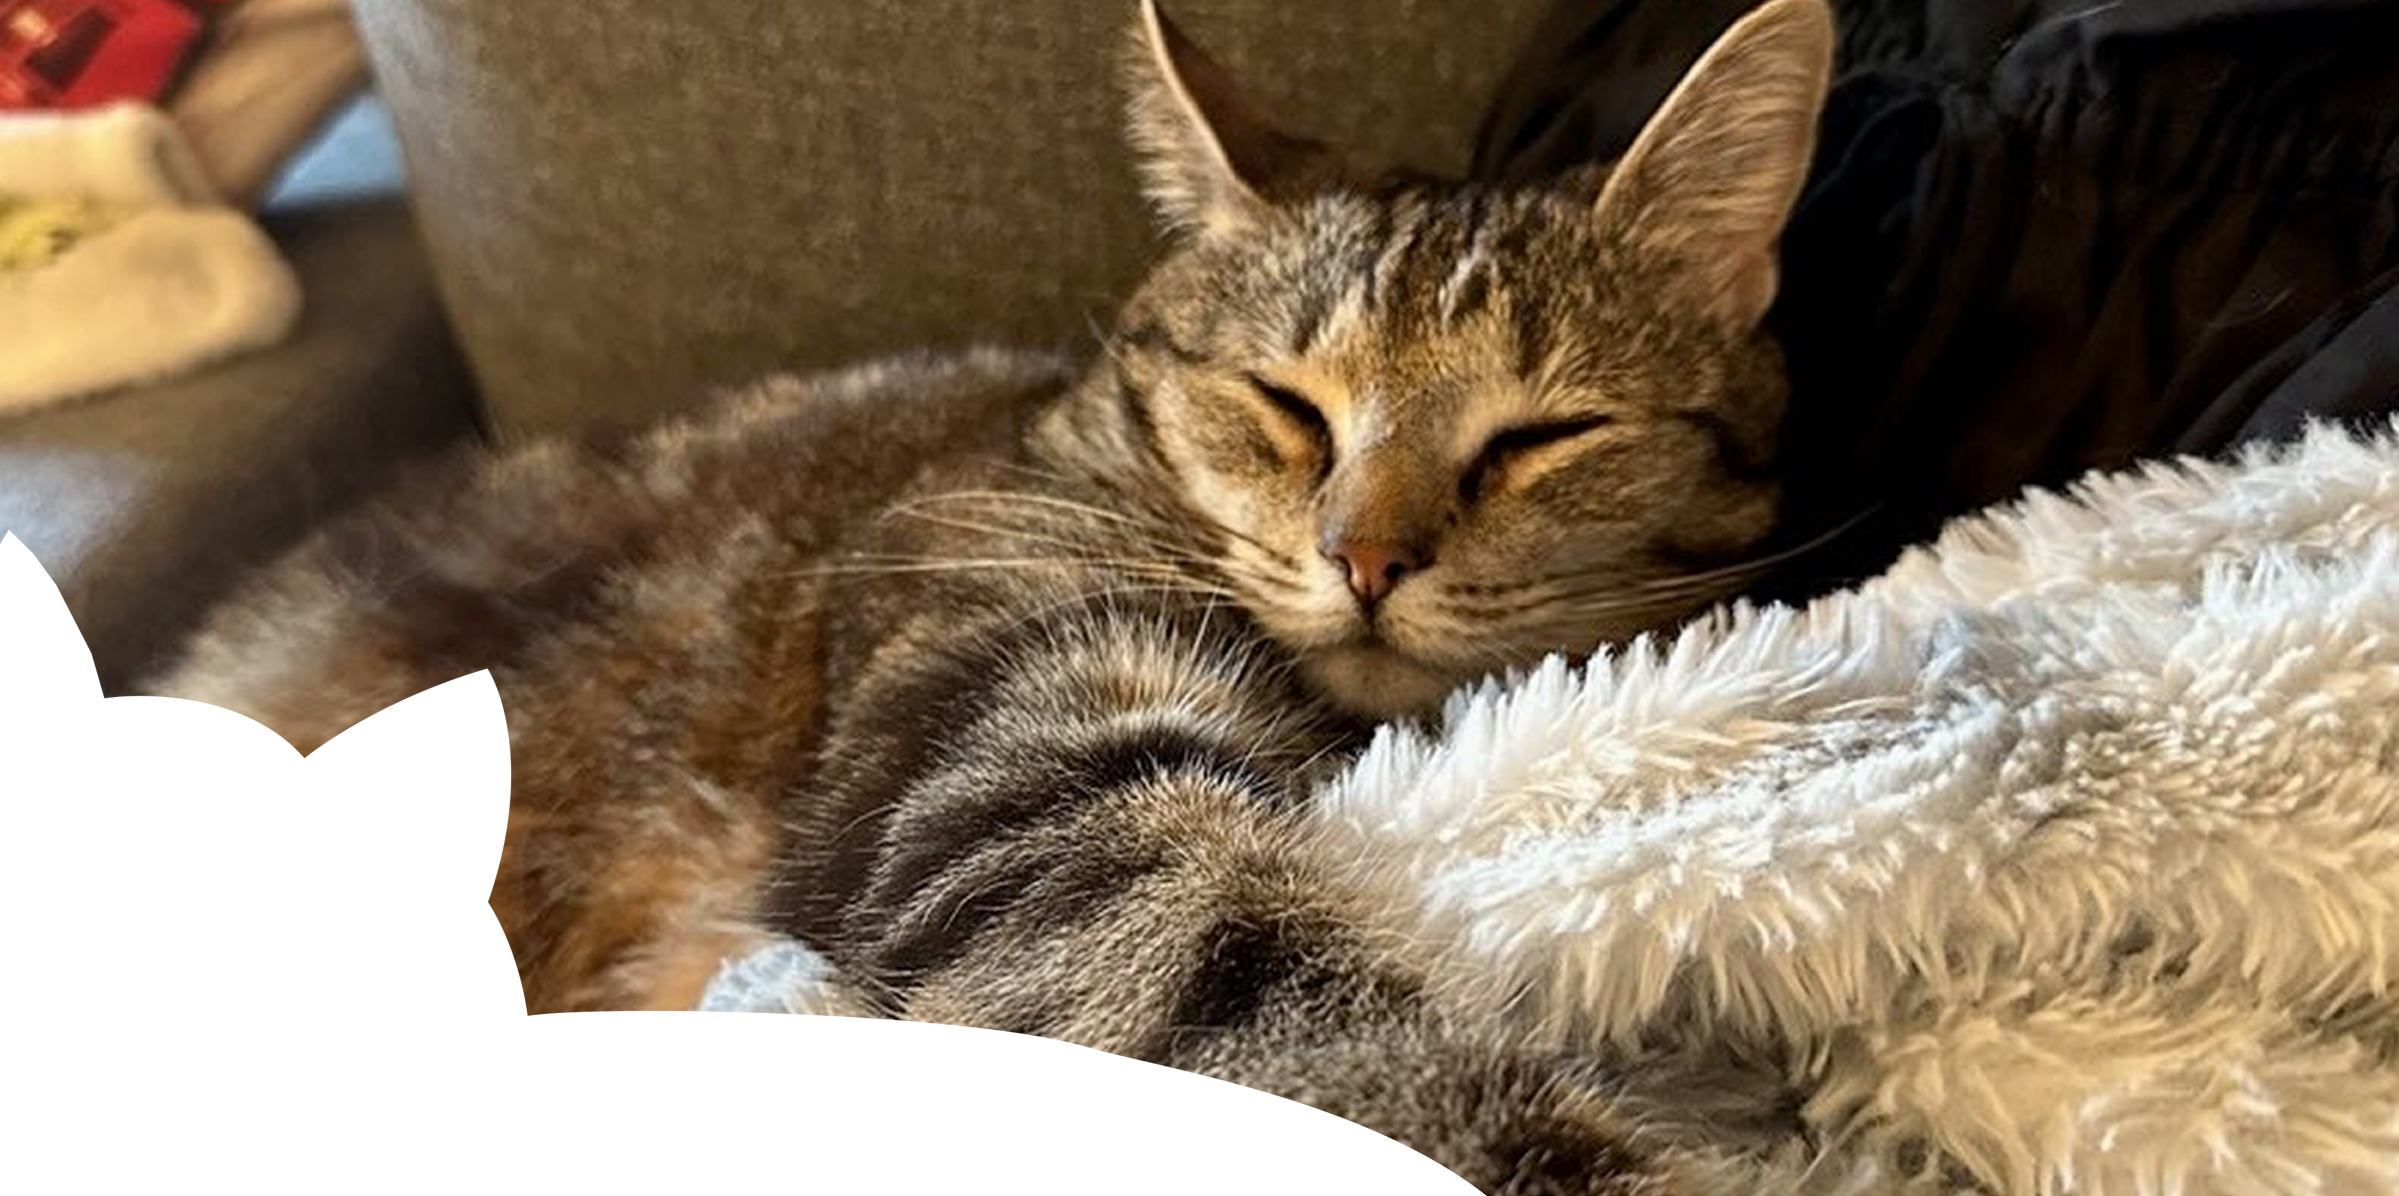
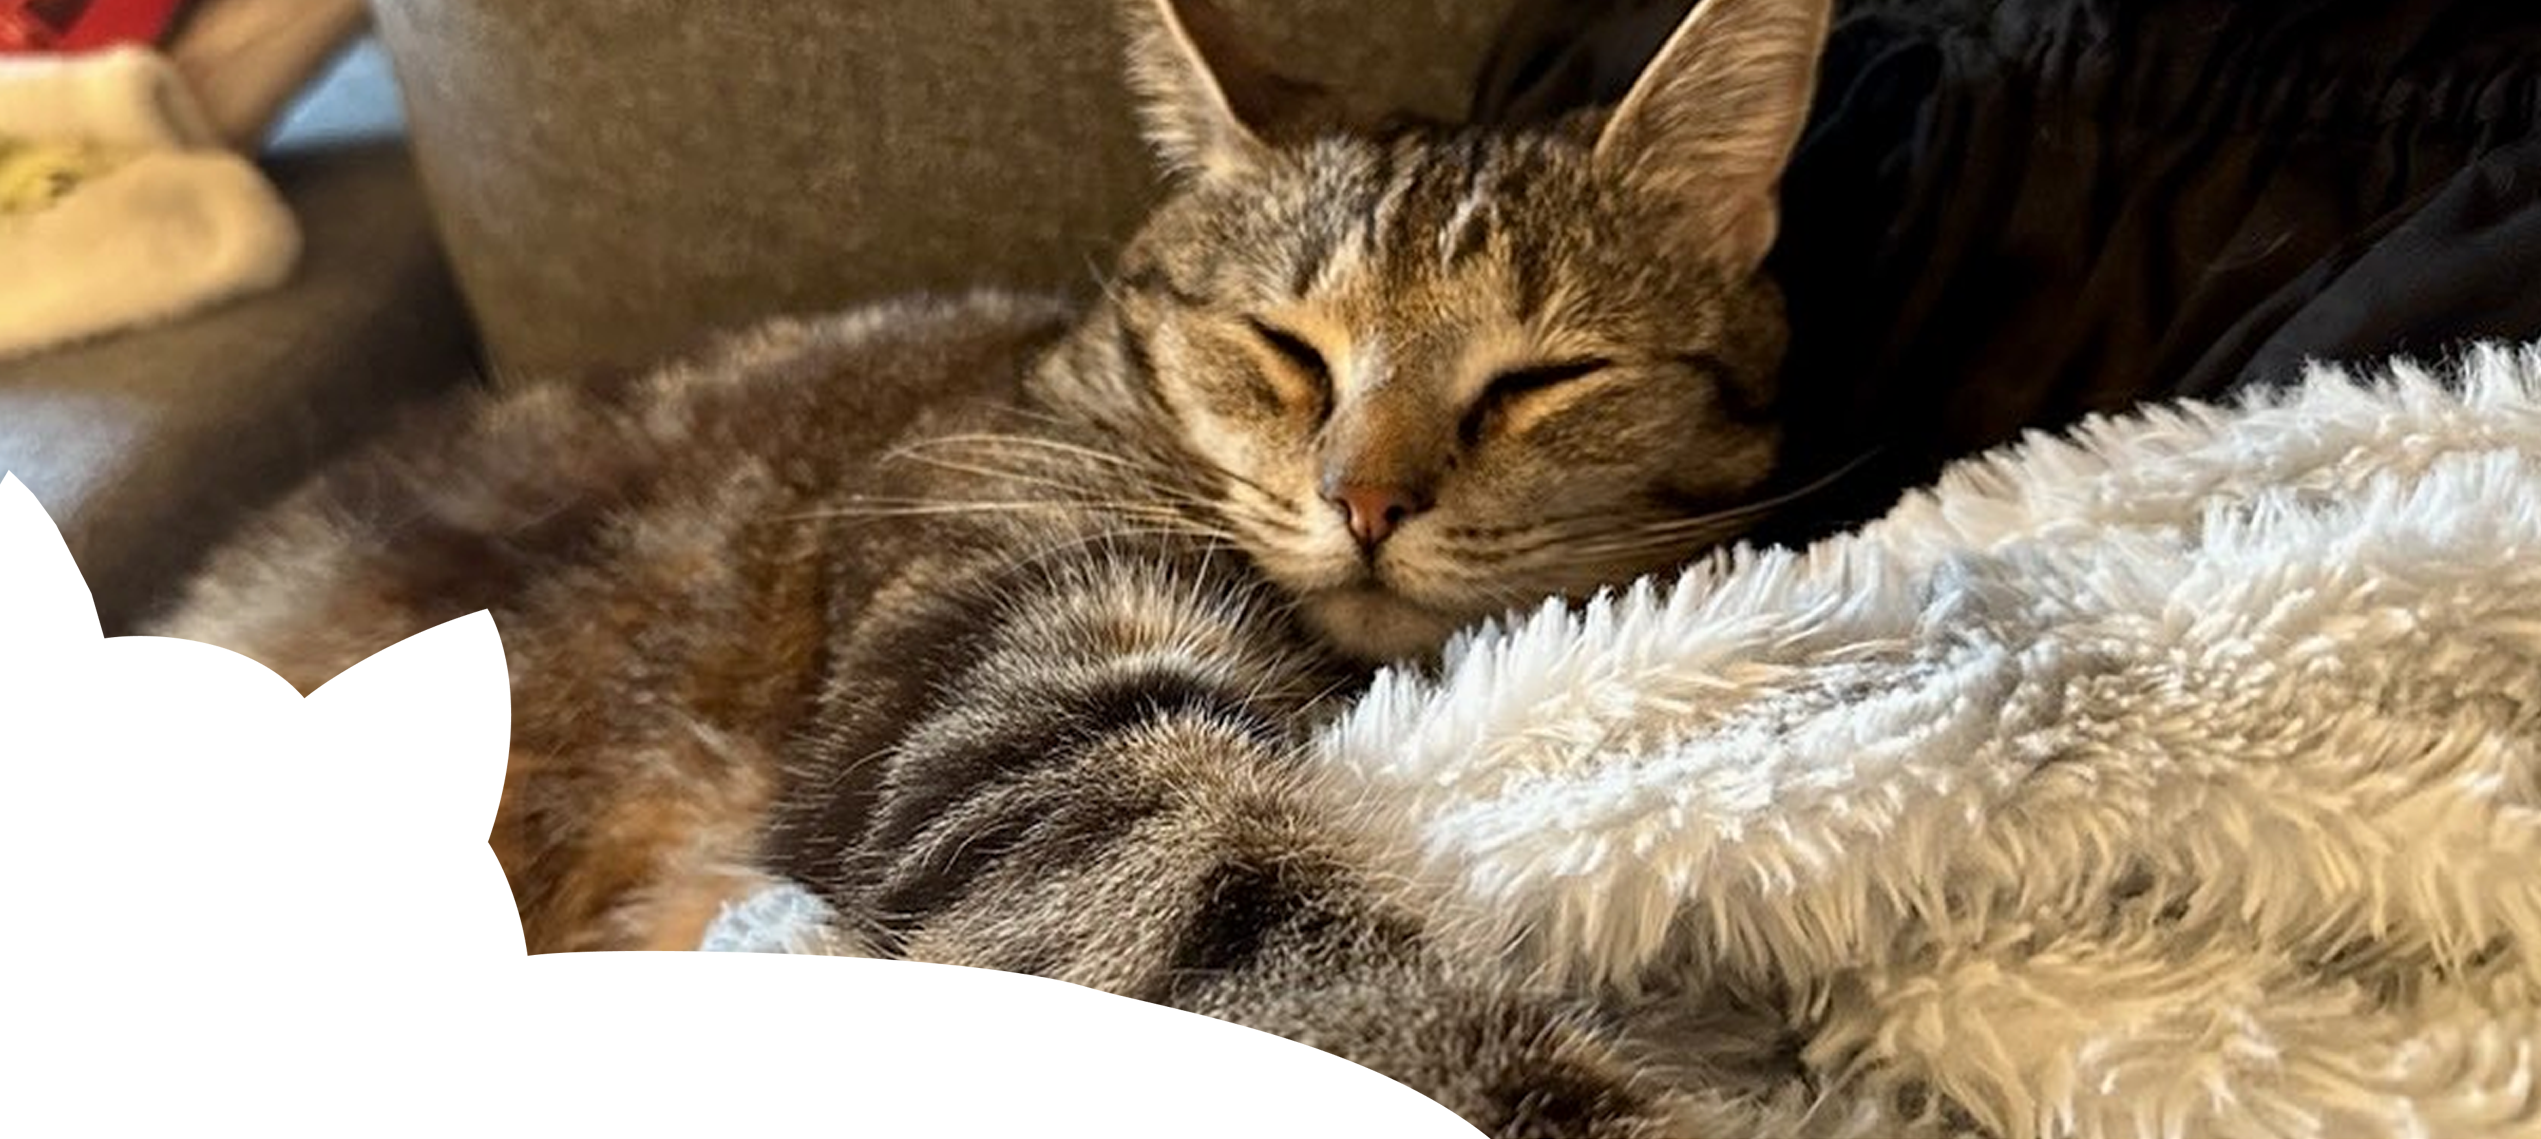
ny header - igen

diff --git a/style.css b/style.css
@@ -377,31 +377,12 @@ body {
     width: 100%;
     height: auto;
     margin-bottom: 40px;
+    
 }
 
 .hero h1 {
     font-size: 48px;
     color: white;
-}
-
-
-
-.overlay-image {
-    position: absolute;
-    top: 380px;
-    left: 0px;
-    width: 50px;
-    height: auto;
-    transform: scale(18);
-    /* Scale it 10 times larger */
-    transform-origin: top left;
-    /* Ensure it scales from the correct corner */
-}
-
-@media (max-width: 768px) {
-    .overlay-image {
-        display: none;
-    }
 }
 
 .donation-box {
